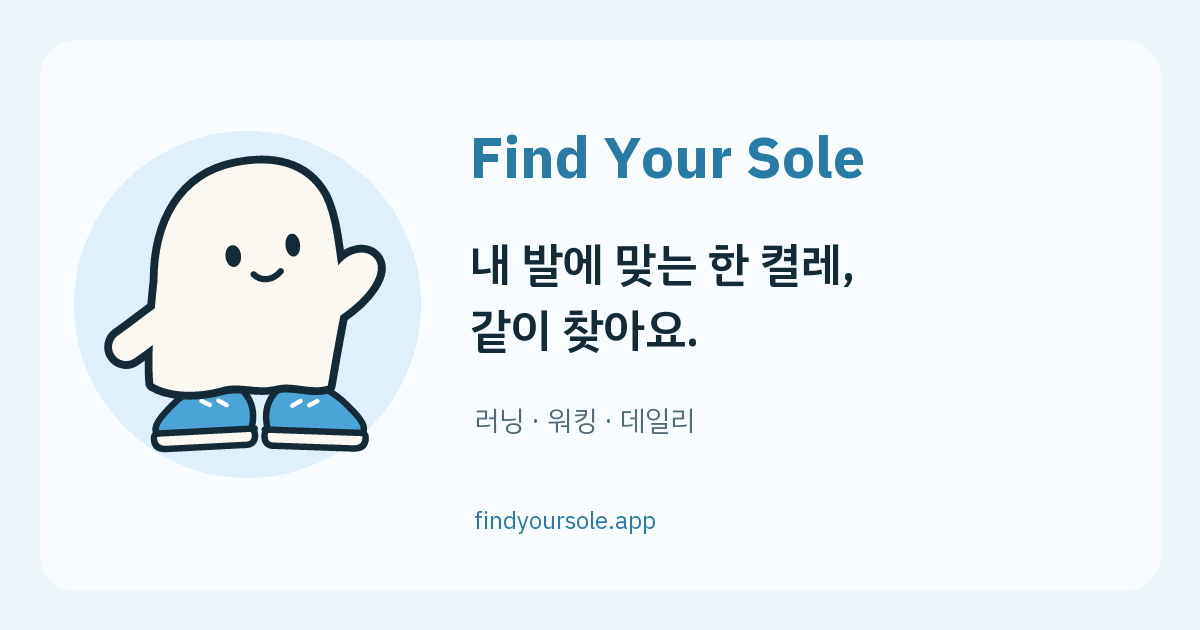
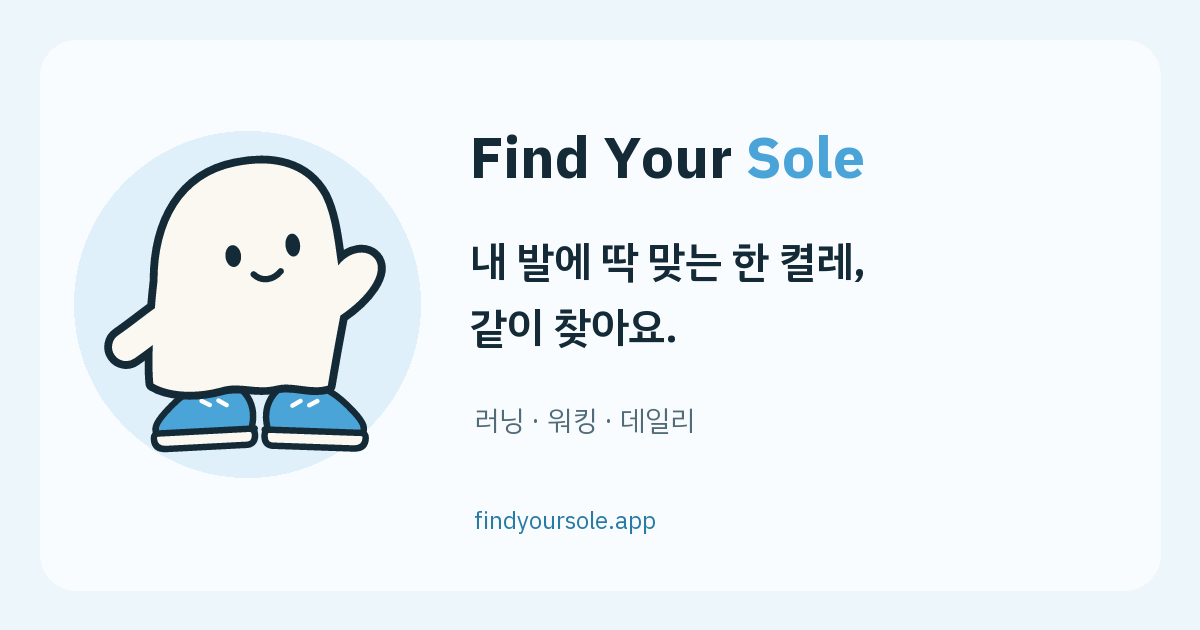
Refine sharing tagline and two-tone wordmark

Changed region(s): [[0.37, 0.2111, 0.74, 0.3016], [0.4008, 0.3619, 0.74, 0.4524], [0.37, 0.4825, 0.5858, 0.573]]

diff --git a/web/index.html b/web/index.html
@@ -13,7 +13,7 @@
     </script>
     <meta name="theme-color" content="#4aabdb" />
 
-    <title>Find Your Sole — 내 발에 맞는 한 켤레</title>
+    <title>Find Your Sole — 내 발에 딱 맞는 한 켤레</title>
     <meta
       name="description"
       content="러닝부터 출퇴근, 산책까지. 몇 가지 질문에 답하고 나에게 맞는 신발과 추천 이유를 확인해 보세요."
@@ -24,7 +24,7 @@
     <meta property="og:type" content="website" />
     <meta property="og:url" content="https://findyoursole.app/" />
     <meta property="og:site_name" content="Find Your Sole" />
-    <meta property="og:title" content="내 발에 맞는 한 켤레, 같이 찾아요 👟" />
+    <meta property="og:title" content="내 발에 딱 맞는 한 켤레, 같이 찾아요 👟" />
     <meta
       property="og:description"
       content="러닝부터 출퇴근, 산책까지. 몇 가지 질문에 답하고 나에게 맞는 신발과 추천 이유를 확인해 보세요."
@@ -35,9 +35,9 @@
     <meta property="og:image:type" content="image/png" />
     <meta property="og:image:width" content="1200" />
     <meta property="og:image:height" content="630" />
-    <meta property="og:image:alt" content="인사하는 솔이와 Find Your Sole — 내 발에 맞는 한 켤레, 같이 찾아요. 러닝 · 워킹 · 데일리" />
+    <meta property="og:image:alt" content="인사하는 솔이와 Find Your Sole — 내 발에 딱 맞는 한 켤레, 같이 찾아요. 러닝 · 워킹 · 데일리" />
     <meta name="twitter:card" content="summary_large_image" />
-    <meta name="twitter:title" content="내 발에 맞는 한 켤레, 같이 찾아요 👟" />
+    <meta name="twitter:title" content="내 발에 딱 맞는 한 켤레, 같이 찾아요 👟" />
     <meta name="twitter:description" content="러닝부터 출퇴근, 산책까지. 몇 가지 질문에 답하고 나에게 맞는 신발과 추천 이유를 확인해 보세요." />
     <meta name="twitter:image" content="https://findyoursole.app/social-preview.png" />
     <meta name="twitter:image:alt" content="솔이와 함께 찾는 러닝 · 워킹 · 데일리 신발, Find Your Sole" />

diff --git a/web/src/i18n.ts b/web/src/i18n.ts
@@ -35,7 +35,7 @@ export const onLocaleChange = (fn: () => void): void => {
 };
 
 const ko = {
-  pageTitle: 'Find Your Sole — 내 발에 맞는 한 켤레',
+  pageTitle: 'Find Your Sole — 내 발에 딱 맞는 한 켤레',
   navHome: '홈',
   navSearch: '검색',
   navSaved: '저장',

diff --git a/web/scripts/build-social-banner.py b/web/scripts/build-social-banner.py
@@ -25,9 +25,12 @@ draw.rounded_rectangle((40, 40, 1160, 590), radius=36, fill='#f9fcfe')
 draw.ellipse((74, 131, 420, 477), fill='#e0f0fa')
 mascot = Image.open(io.BytesIO(resvg_py.svg_to_bytes(svg_path=str(ROOT / 'design/sol-e/sol-e-default.svg'), width=330, height=330))).convert('RGBA')
 image.paste(mascot, (80, 139), mascot)
-draw.text((470, 115), 'Find Your Sole', font=font('Bold', 58), fill='#287ba5')
-draw.text((470, 230), '내 발에 맞는 한 켤레,', font=font('SemiBold', 46), fill='#142b37')
-draw.text((470, 296), '같이 찾아요.', font=font('SemiBold', 46), fill='#142b37')
+brand_font = font('Bold', 58)
+draw.text((470, 115), 'Find Your', font=brand_font, fill='#142b37')
+sole_x = 470 + draw.textlength('Find Your ', font=brand_font)
+draw.text((sole_x, 115), 'Sole', font=brand_font, fill='#4ba4d8')
+draw.text((470, 230), '내 발에 딱 맞는 한 켤레,', font=font('SemiBold', 42), fill='#142b37')
+draw.text((470, 296), '같이 찾아요.', font=font('SemiBold', 42), fill='#142b37')
 draw.text((474, 399), '러닝 · 워킹 · 데일리', font=font('Regular', 28), fill='#526b79')
 draw.text((474, 502), 'findyoursole.app', font=font('Regular', 24), fill='#287ba5')
 image.save(ROOT / 'public/social-preview.png', optimize=True)
